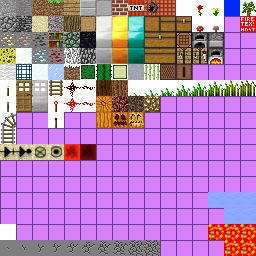
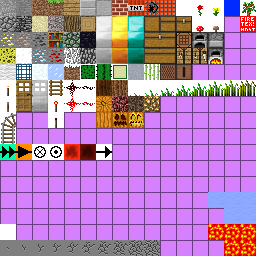
texture update!

Changed region(s): [[0.0, 0.5625, 0.25, 0.625], [0.375, 0.5625, 0.4375, 0.625]]

diff --git a/arrange-terrain.py b/arrange-terrain.py
@@ -21,7 +21,7 @@ def swap(a, b):
         for j in range(16):
             pixels[ai + i][aj + j], pixels[bi + i][bj + j] = pixels[bi + i][bj + j], pixels[ai + i][aj + j]
 
-def copy(a, b):
+def copy(a, b, alpha_color=(0, 0, 0, 255)):
     ai, aj = a
     bi, bj = b
     ai *= 16
@@ -30,7 +30,11 @@ def copy(a, b):
     bj *= 16
     for i in range(16):
         for j in range(16):
-            pixels[bi + i][bj + j] = pixels[ai + i][aj + j]
+            pixel = pixels[ai + i][aj + j]
+            if pixel[3] == 0:
+                pixels[bi + i][bj + j] = alpha_color
+            else:
+                pixels[bi + i][bj + j] = pixel
 
 for s in range(10, 14):
     for i in range(s, 0, -1):
@@ -79,41 +83,51 @@ def pack(x, y=None, z=None):
         rotate((slot + 5) % 16, (slot + 5) // 16)
     slot += 6
 
-copy((2, 5), (13, 13))
+def pack_circuit(in_coord, out_coord, side):
+    global slot
+    color = pixels[(side % 16)*16][(side // 16 + 4)*16]
+    copy((in_coord % 16, (in_coord // 16) + 4), ((slot + 0) % 16, (slot + 0) // 16), color)
+    copy((out_coord % 16, (out_coord // 16) + 4), ((slot + 1) % 16, (slot + 1) // 16), color)
+    copy((side % 16, (side // 16) + 4), ((slot + 2) % 16, (slot + 2) // 16))
+    copy((side % 16, (side // 16) + 4), ((slot + 3) % 16, (slot + 3) // 16))
+    copy((side % 16, (side // 16) + 4), ((slot + 4) % 16, (slot + 4) // 16))
+    copy((side % 16, (side // 16) + 4), ((slot + 5) % 16, (slot + 5) // 16))
 
-# diode
-for i in range(6, 10):
-    for j in range(16):
-        pixels[13 * 16 + i][13 * 16 + j] = (0, 0, 0)
-rotate(13, 13)
+    rotate((slot + 3) % 16, (slot + 3) // 16)
+    rotate((slot + 4) % 16, (slot + 4) // 16)
+    rotate((slot + 4) % 16, (slot + 4) // 16)
+    rotate((slot + 5) % 16, (slot + 5) // 16)
+    rotate((slot + 5) % 16, (slot + 5) // 16)
+    rotate((slot + 5) % 16, (slot + 5) // 16)
+    slot += 6
 
 # display
 for i in range(16):
     for j in range(16):
-        pixels[12 * 16 + i][13 * 16 + j] = (0, 0, 0)
-        pixels[11 * 16 + i][13 * 16 + j] = (255, 255, 255)
+        pixels[12 * 16 + i][13 * 16 + j] = (0, 0, 0, 255)
+        pixels[11 * 16 + i][13 * 16 + j] = (255, 255, 255, 255)
 
 # switch
 for i in range(16):
     for j in range(16):
-        pixels[10 * 16 + i][13 * 16 + j] = (255, 0, 0)
-        pixels[9 * 16 + i][13 * 16 + j] = (255, 0, 0)
+        pixels[10 * 16 + i][13 * 16 + j] = (255, 0, 0, 255)
+        pixels[9 * 16 + i][13 * 16 + j] = (255, 0, 0, 255)
 for i in range(8):
     for j in range(8):
-        pixels[10 * 16 + i + 4][13 * 16 + j + 4] = (255, 255, 255)
-        pixels[9 * 16 + i + 4][13 * 16 + j + 4] = (255, 255, 255)
+        pixels[10 * 16 + i + 4][13 * 16 + j + 4] = (255, 255, 255, 255)
+        pixels[9 * 16 + i + 4][13 * 16 + j + 4] = (255, 255, 255, 255)
 for i in range(4):
     for j in range(4):
-        pixels[9 * 16 + i + 6][13 * 16 + j + 6] = (255, 0, 0)
+        pixels[9 * 16 + i + 6][13 * 16 + j + 6] = (255, 0, 0, 255)
 
 # bluestone
 for i in range(16):
     for j in range(16):
         x = pixels[4 * 16 + i][13 * 16 + j]
-        pixels[8 * 16 + i][13 * 16 + j] = (x[2], x[1], x[0])
+        pixels[8 * 16 + i][13 * 16 + j] = (x[2], x[1], x[0], x[3])
 
         x = pixels[5 * 16 + i][13 * 16 + j]
-        pixels[7 * 16 + i][13 * 16 + j] = (x[2], x[1], x[0])
+        pixels[7 * 16 + i][13 * 16 + j] = (x[2], x[1], x[0], x[3])
 
 
 pack(1) # stone
@@ -122,13 +136,13 @@ pack(4) # wood
 pack(9 * 16 + 4) # active redstone
 pack(9 * 16 + 5) # inactive redstone
 
-pack(9 * 16 + 3, 9 * 16 + 2, 9 * 16 + 0) # active delay gate
-pack(9 * 16 + 3, 9 * 16 + 2, 9 * 16 + 0) # delay gate
-pack(9 * 16 + 3, 9 * 16 + 2, 9 * 16 + 1) # active not gate
-pack(9 * 16 + 3, 9 * 16 + 2, 9 * 16 + 1) # not gate
+pack_circuit(9 * 16 + 3, 9 * 16 + 2, 9 * 16 + 0) # active delay gate
+pack_circuit(9 * 16 + 3, 9 * 16 + 2, 9 * 16 + 0) # delay gate
+pack_circuit(9 * 16 + 3, 9 * 16 + 2, 9 * 16 + 1) # active not gate
+pack_circuit(9 * 16 + 3, 9 * 16 + 2, 9 * 16 + 1) # not gate
 
-pack(9 * 16 + 3, 9 * 16 + 2, 9 * 16 + 13) # active diode
-pack(9 * 16 + 3, 9 * 16 + 2, 9 * 16 + 13) # diode
+pack_circuit(9 * 16 + 3, 9 * 16 + 2, 9 * 16 + 6) # active diode
+pack_circuit(9 * 16 + 3, 9 * 16 + 2, 9 * 16 + 6) # diode
 
 pack(9 * 16 + 11) # active display
 pack(9 * 16 + 12) # display

diff --git a/voxel.cpp b/voxel.cpp
@@ -466,25 +466,25 @@ class Game {
                         player_block_selection = Block::InactiveBluestone;
                         break;
                     case SDLK_3:
-                        player_block_selection = Block::Switch;
-                        break;
-                    case SDLK_4:
                         player_block_selection = Block::NotGate;
                         break;
-                    case SDLK_5:
+                    case SDLK_4:
                         player_block_selection = Block::DelayGate;
                         break;
-                    case SDLK_6:
+                    case SDLK_5:
                         player_block_selection = Block::DiodeGate;
+                        break;
+                    case SDLK_6:
+                        player_block_selection = Block::Switch;
                         break;
                     case SDLK_7:
                         player_block_selection = Block::Display;
                         break;
                     case SDLK_8:
-                        player_block_selection = Block::Wood;
+                        player_block_selection = Block::Stone;
                         break;
                     case SDLK_9:
-                        player_block_selection = Block::Dirt;
+                        player_block_selection = Block::Wood;
                         break;
                     case SDLK_TAB:
                         player_mouse_modify = World::PlayerMouseModify::Identify;

diff --git a/world.cpp b/world.cpp
@@ -491,7 +491,13 @@ void World::player_click(Ray ray, Block block, PlayerMouseModify player_action) 
             set_block(x, y, z, Block::Air);
             return;
         } else if (player_action == PlayerMouseModify::RotateBlock) {
-            rotate_block(x, y, z);
+            const Block &selected_block = get_block(x, y, z);
+            if (selected_block.is_switch()) {
+                set_active(x, y, z, !selected_block.is_active());
+            } else {
+                rotate_block(x, y, z);
+            }
+
             return;
         }
     }
